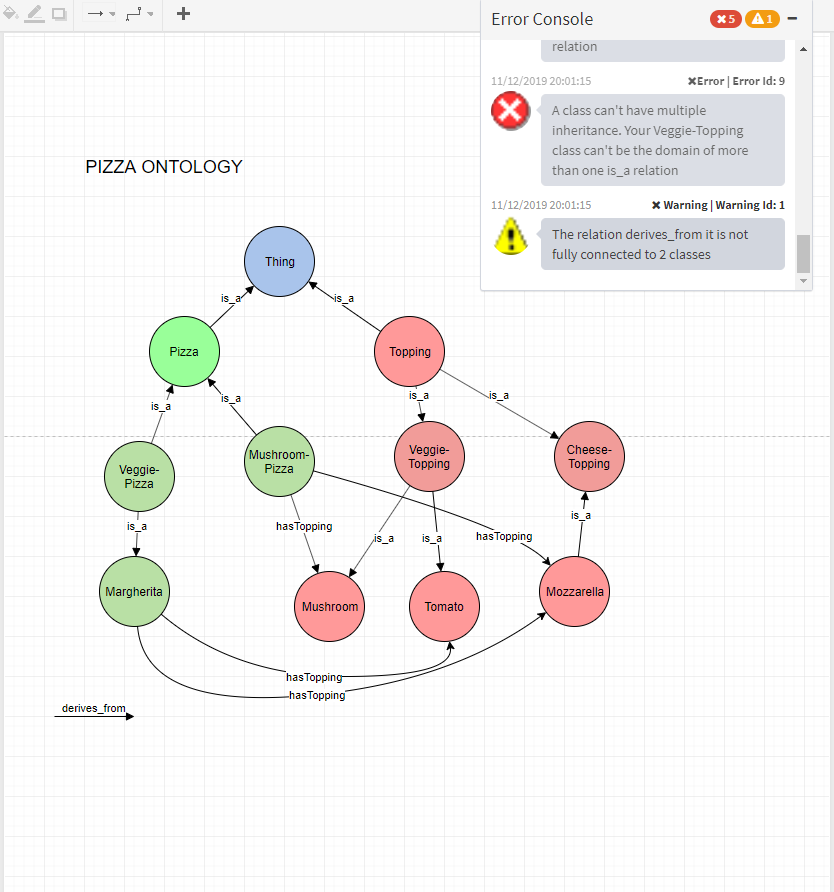
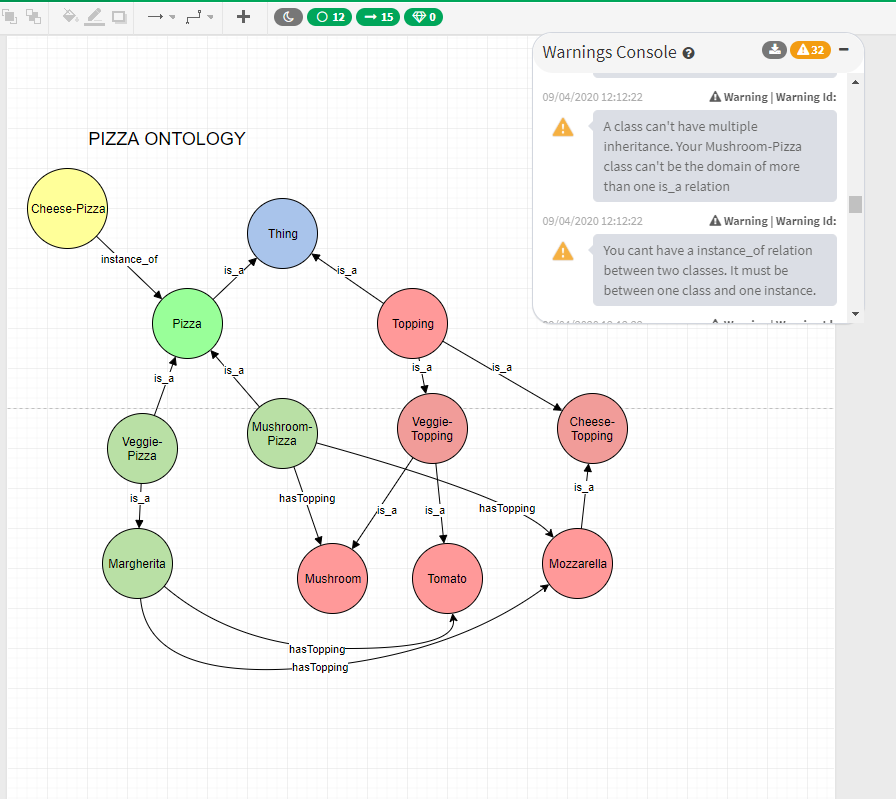
Reorganizar menus #33 / Atualização dos prints

diff --git a/public/css/mxgraph/grapheditor.css b/public/css/mxgraph/grapheditor.css
@@ -20,10 +20,10 @@
 
 /* --------------------------------------------ONTO4ALL------------------------------------------------------------*/
 
-
+/*
 html {
     overflow-y: hidden;
-}
+}*/
 /*
     ALTERAÇÕES PARA ENCAIXAR O DIAGRAMA
     NA HOME E ORGANIZAR OS MENUS
@@ -124,7 +124,7 @@ center {
 
 .control-sidebar.control-sidebar-open, .control-sidebar.control-sidebar-open + .control-sidebar-bg {
     position: absolute;
-    width: 23%;
+    width: 21%;
 }
 
 #searchBar {
@@ -148,7 +148,7 @@ aside {
     position: relative;
     z-index: 13;
     margin-left: 650px;
-    bottom: 32px;
+    /*bottom: 32px;*/
     border-radius: 20px;
 
 }

diff --git a/resources/views/index.blade.php b/resources/views/index.blade.php
@@ -698,7 +698,12 @@
                         implementation.
                     </p>
                     <p>
-                        <strong>You can import other ontologies to this editor if they have been created using the Onto4AllEditor and have a .XML extension. All ontologies exported by this editor can be imported in later projects </strong>. Using the menu editor, click on the "file" button and then on the "import" as showed below:
+                        <strong>You can edit your previous saved ontologies using the button "open in the editor" on the right sidebar</strong>
+                    </p>
+                    <img class="img-max-width" alt="import" src="css/images/Methodology/importFromSidebar.png">
+
+                    <p>
+                        <strong>You can import other ontologies to this editor if they have been created using the Onto4AllEditor and have a .XML extension. All ontologies exported by this editor can be imported in later projects. </strong>. Using the menu editor, click on the "file" button and then on the "import" as showed below:
                     </p>
                     <img class="img-max-width" alt="import" src="css/images/Methodology/import.png">
                     <p>Select a valid file from your computer using the "choose file" button or drag a file direct to the box and then click in "import"</p>
@@ -795,7 +800,7 @@
                         criteria are: non-recursivity in definitions, the specification of different types of part_of
                         relations, the definition of inverse relations, and the creation of the cardinalities.
                         In the Onto4AllEditor, the Phase 6 is performed automatically by the editor
-                        through of the functionality Error Console, that it presents the current errors in the
+                        through of the functionality Warnings Console, that suggests good modeling practices for the current
                         drawn ontology.
                     </p>
                     <img class="img-max-width" alt="console" src="css/images/Methodology/console.png">
@@ -918,6 +923,10 @@
     </body>
 
 
+@stop
+
+@section('footer')
+    .
 @stop
 
 <!-- THIS FUNCTION NEEDS TO BE LOADED AFTER THE MXGRAPH COMPONENTS -->
